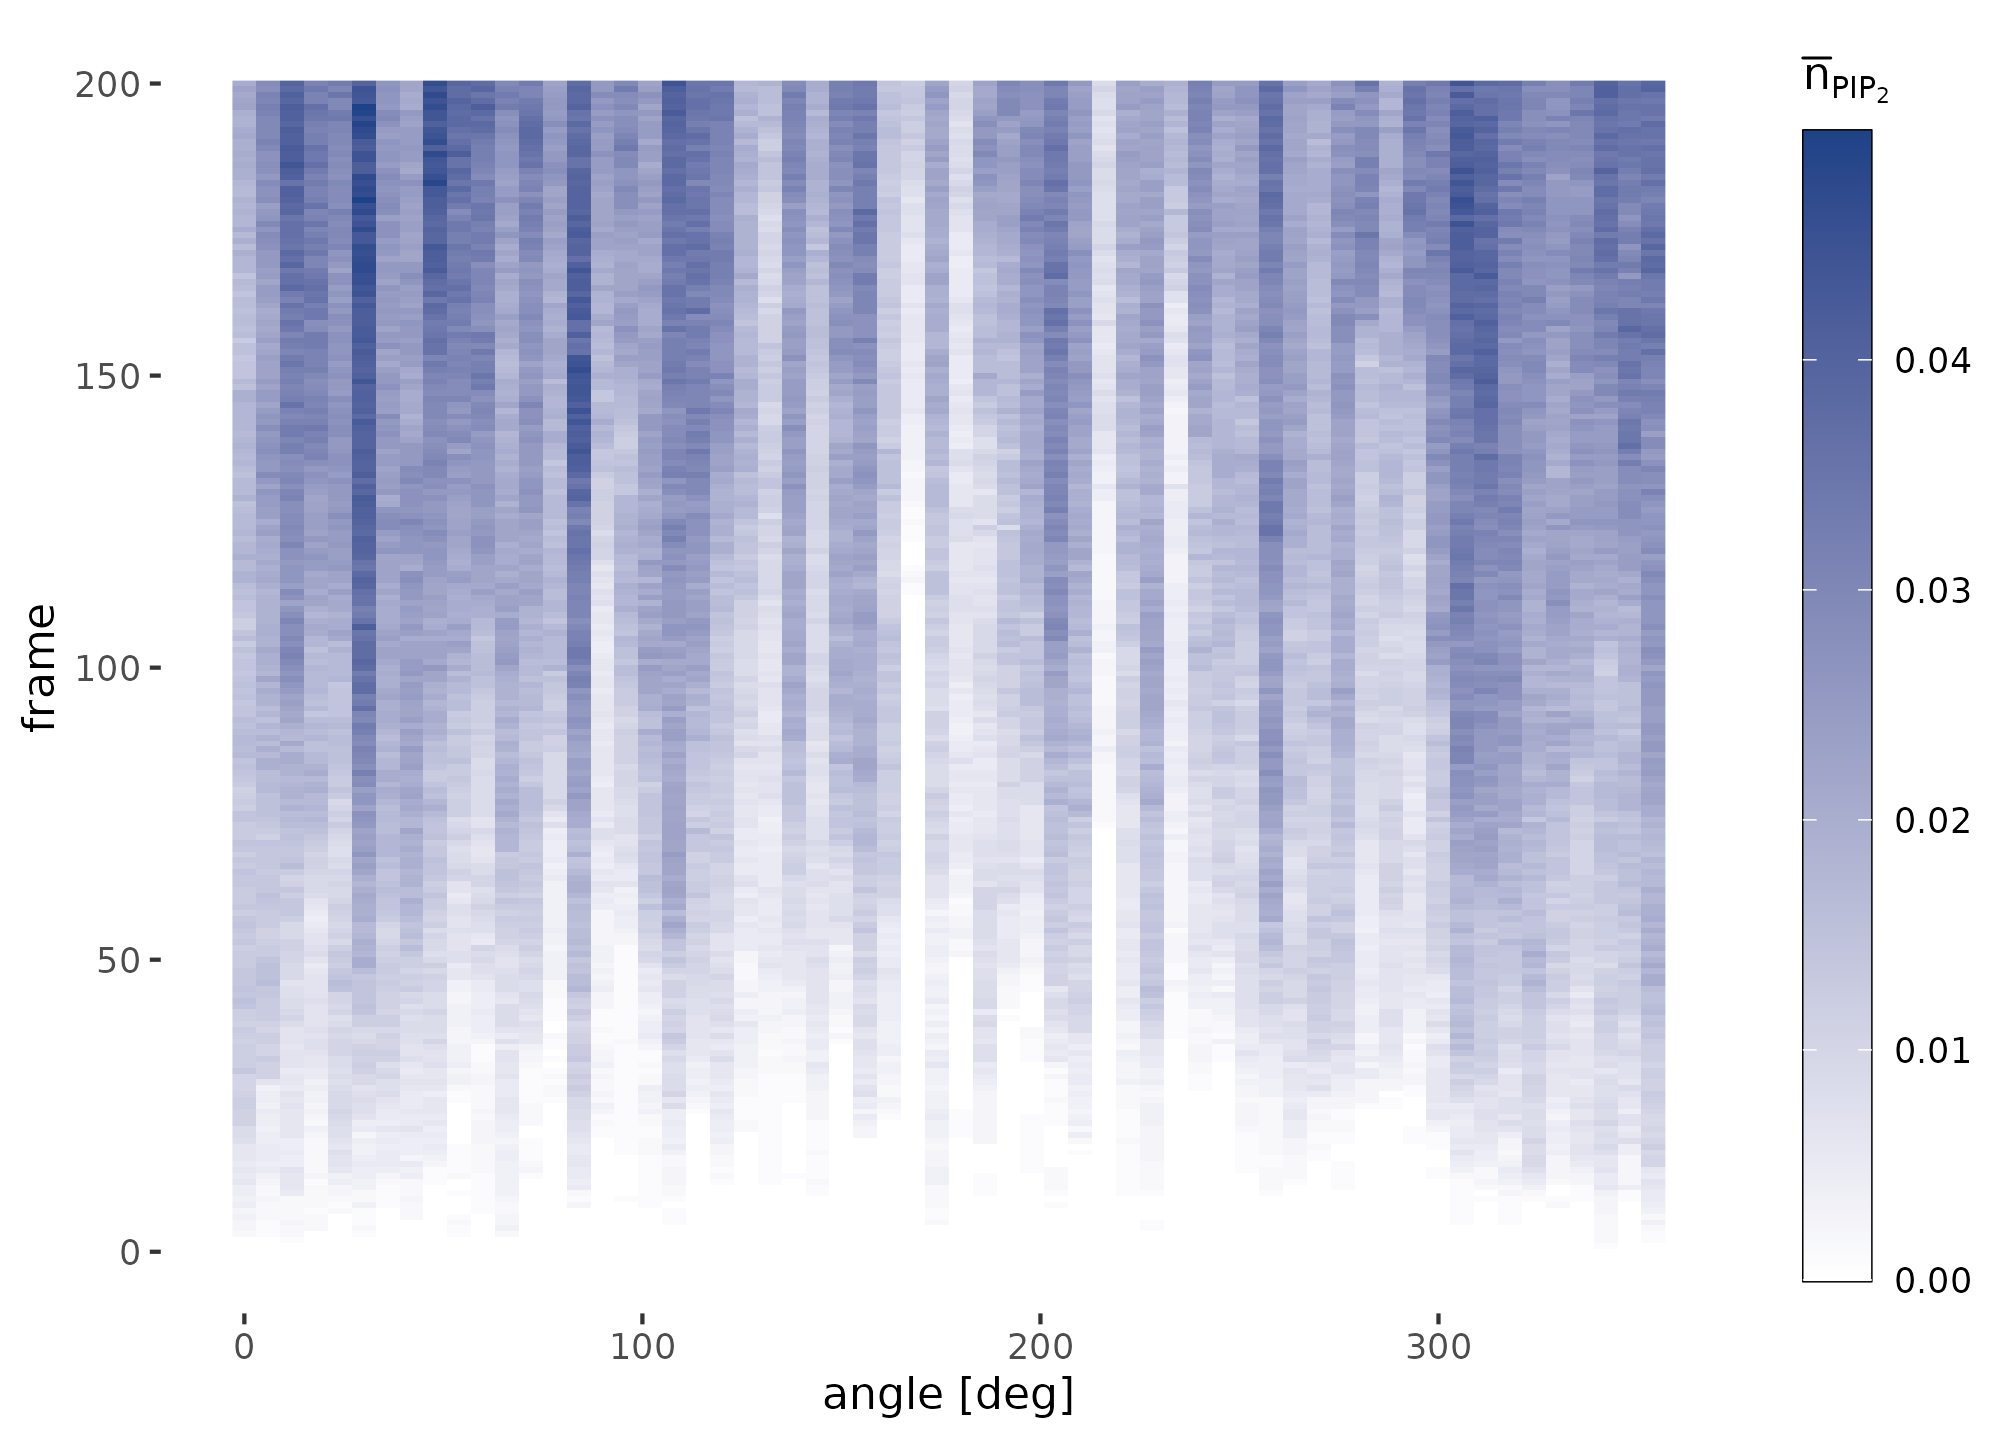
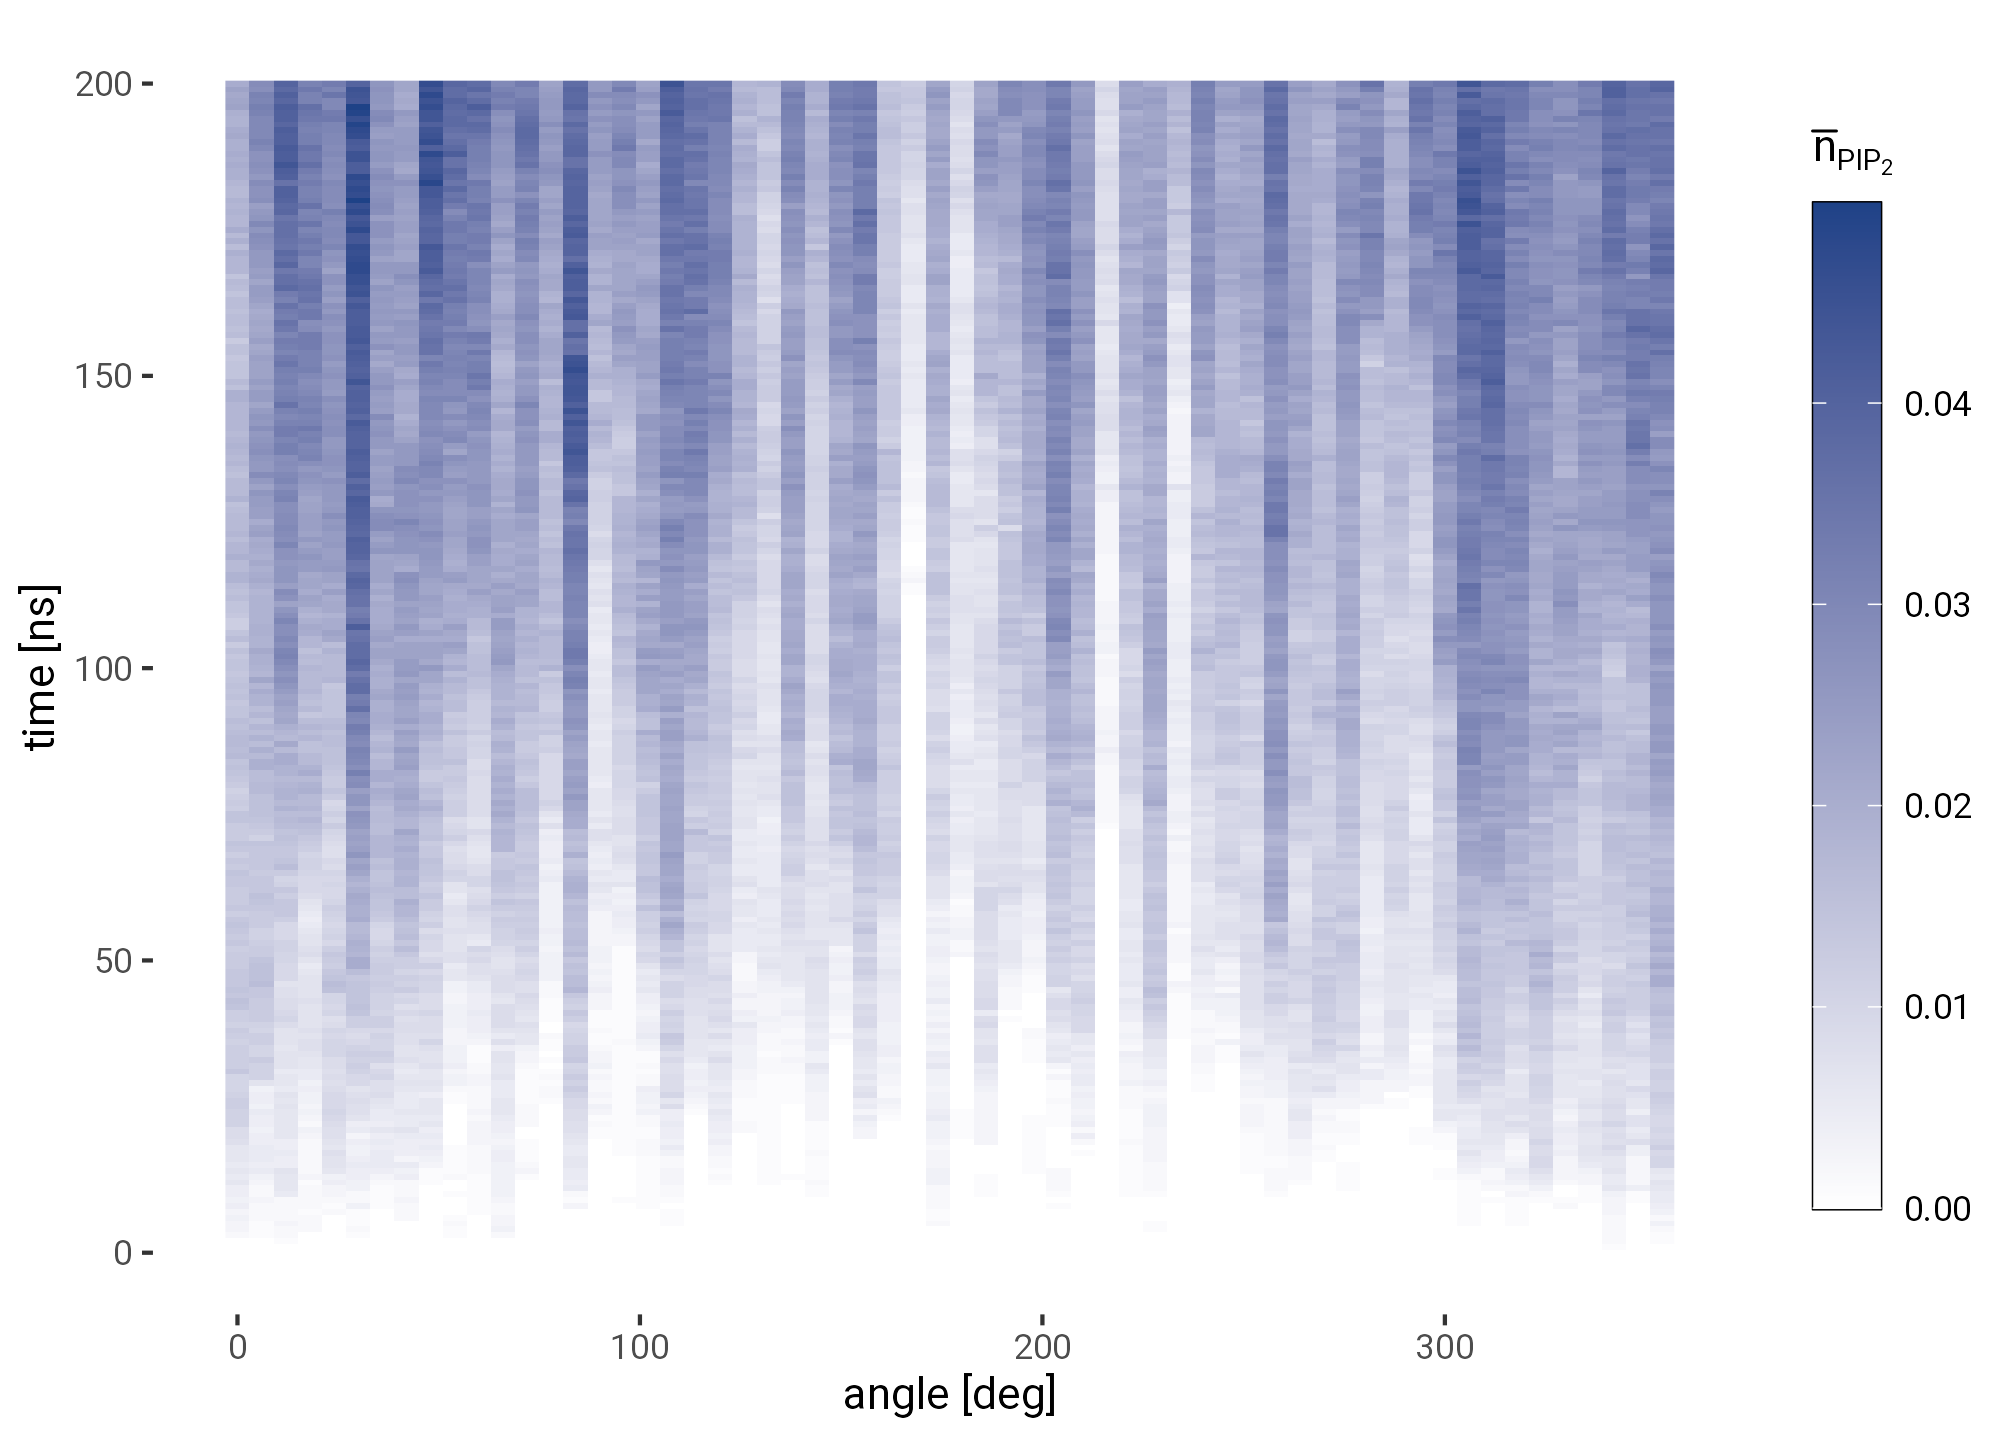
fix plot theming

diff --git a/index.html b/index.html
@@ -9,7 +9,7 @@
 <meta name="author" content="Jannik Buhr">
 <meta name="author" content="Florian Franz">
 <meta name="author" content="Frauke Gräter">
-<meta name="dcterms.date" content="2022-06-22">
+<meta name="dcterms.date" content="2022-06-23">
 <meta name="keywords" content="molecular dynamics, Talin, Focal Adhesion, Mechanosensing">
 
 <title>Intrinsically disordered region of Talin’s FERM domain functions as an initial PIP2 recognition site</title>
@@ -219,7 +219,7 @@ div.csl-indent {
     <div>
     <div class="quarto-title-meta-heading">Published</div>
     <div class="quarto-title-meta-contents">
-      <p class="date">June 22, 2022</p>
+      <p class="date">June 23, 2022</p>
     </div>
   </div>
     
@@ -521,7 +521,7 @@ Tip
 <div class="quarto-layout-cell quarto-layout-cell-subref" style="flex-basis: 50.0%;justify-content: center;">
 <div id="fig-r-hist" class="quarto-figure quarto-figure-center anchored">
 <figure class="figure">
-<p><img src="./assets/results/plots/rot-sample-r-hist-1.png" class="img-fluid figure-img" data-ref-parent="fig-suppl"></p>
+<p><img src="./assets/results/plots/f0f1-distance-cutoff-1.png" class="img-fluid figure-img" data-ref-parent="fig-suppl"></p>
 <p></p><figcaption aria-hidden="true" class="figure-caption">(b) &nbsp;</figcaption><p></p>
 </figure>
 </div>
